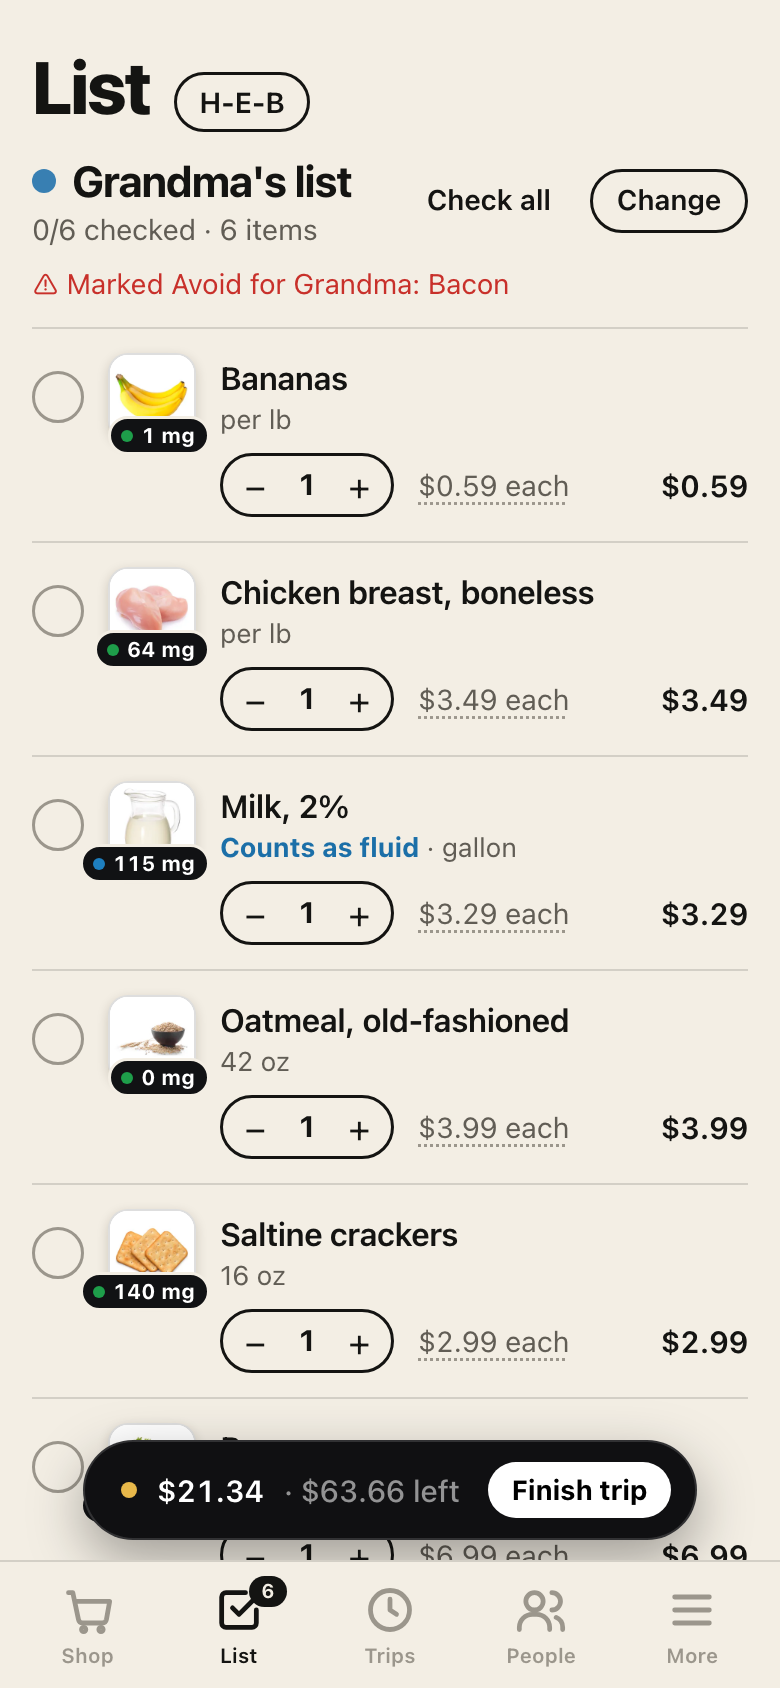
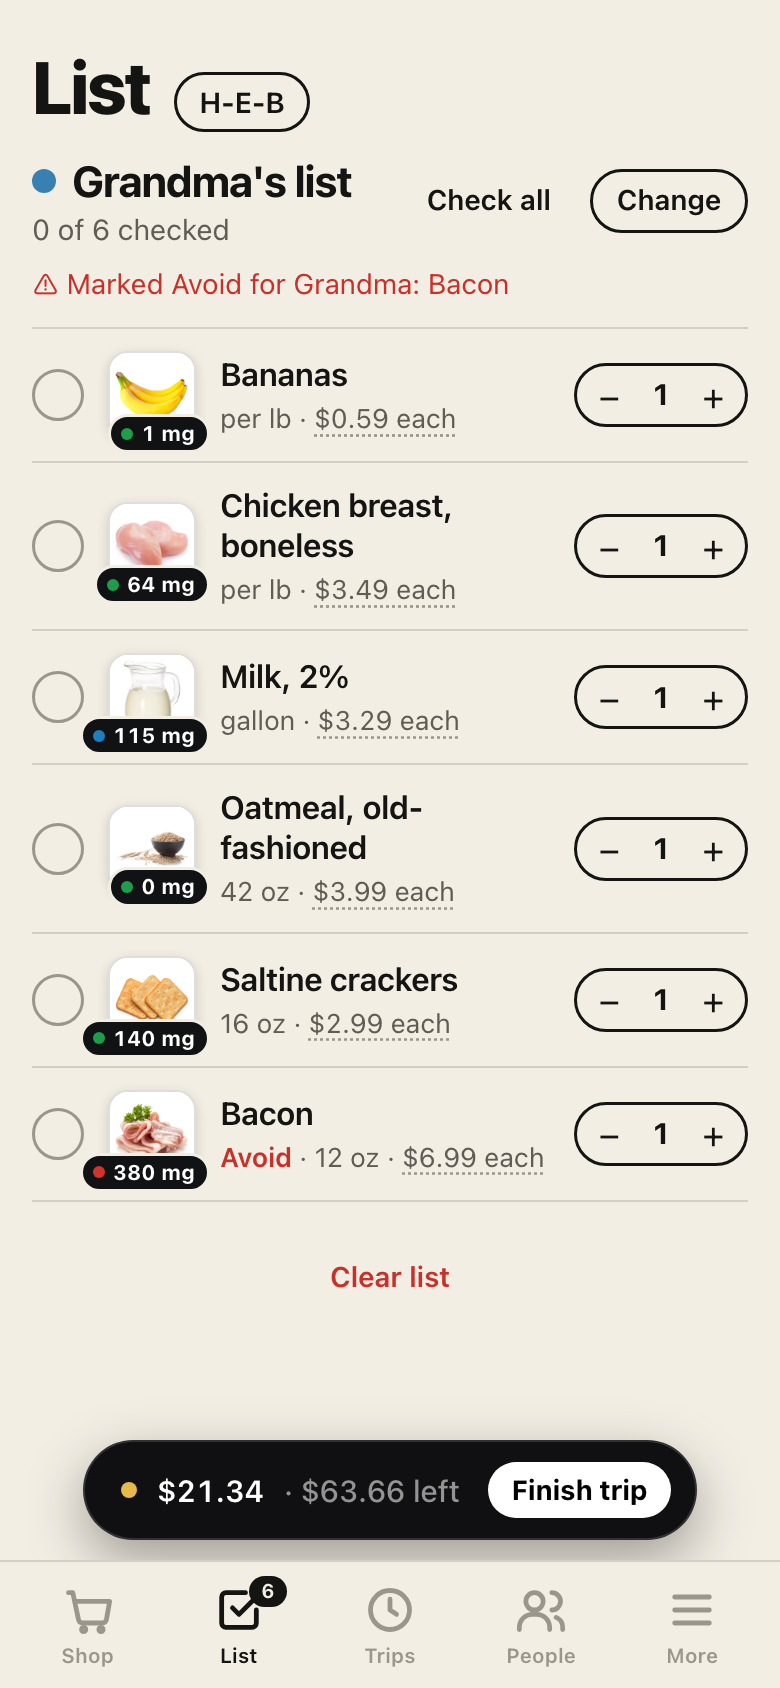
List: one compact row per item (stepper on the right, price in the sub-line, line total only when qty > 1)
Claude-Session: https://claude.ai/code/session_019am7j4huQfKjt5Ju6YVUKz

diff --git a/index.html b/index.html
@@ -182,14 +182,16 @@ textarea.input{min-height:72px;resize:vertical}
 .listhead .sub{color:var(--ink2);font-size:.9rem}
 .listhead .bar{grid-column:1/-1;margin-top:6px}
 .listhead .meta{grid-column:1/-1;display:flex;justify-content:space-between;align-items:center;gap:8px;font-size:.88rem;color:var(--ink2)}
-.cartrow{display:grid;grid-template-columns:auto auto 1fr;gap:6px 12px;align-items:center;padding:12px 0;position:relative;border-bottom:1px solid var(--hair)}
+.cartrow{display:grid;grid-template-columns:auto auto 1fr auto;gap:2px 12px;align-items:center;padding:11px 0;position:relative;border-bottom:1px solid var(--hair)}
 .cartrow.got .name{text-decoration:line-through;color:var(--ink2)}
 .cartrow.got .thumb{opacity:.45}
-.cartrow .name{font-weight:600;font-size:1rem;letter-spacing:-.01em}
-.cartrow .sub{font-size:.84rem;color:var(--ink2)}
-.cartrow .controls{grid-column:3/4;display:flex;align-items:center;gap:10px}
-.cartrow .pricebtn{font-size:.9rem;color:var(--ink2);padding:6px 2px;font-variant-numeric:tabular-nums;text-decoration:underline dotted var(--ink3);text-underline-offset:3px}
-.cartrow .linetotal{margin-left:auto;font-weight:600;color:var(--ink);font-size:.95rem}
+.cartrow .body{min-width:0}
+.cartrow .name{font-weight:600;font-size:1rem;letter-spacing:-.01em;line-height:1.25}
+.cartrow .sub{font-size:.84rem;color:var(--ink2);margin-top:3px;line-height:1.35}
+.cartrow .sub b{font-weight:600} .cartrow .sub .c2{color:var(--limit)} .cartrow .sub .c3{color:var(--avoid)}
+.cartrow .act{display:flex;flex-direction:column;align-items:flex-end;gap:5px;justify-self:end}
+.cartrow .pricebtn{font:inherit;color:var(--ink2);padding:0;font-variant-numeric:tabular-nums;text-decoration:underline dotted var(--ink3);text-underline-offset:3px}
+.cartrow .linetotal{font-weight:600;color:var(--ink);font-size:.9rem;font-variant-numeric:tabular-nums;line-height:1}
 .cartrow .qty{background:transparent;color:var(--ink);border:1.5px solid var(--ink)}
 .cartrow .money{width:104px}
 .cartrow .money .input{min-height:32px;padding-block:3px;border-radius:999px;padding-left:22px}
@@ -1307,7 +1309,7 @@ function renderCart(){
   if (st) $("#titleAside").innerHTML = `<span class="lozenge">${esc(st.name)}</span>`;
   sc.innerHTML = `
     <div class="listhead" style="--h:${personHue(p)}">
-      <div><div class="row nowrap" style="gap:8px"><span class="pdot"></span><h2>${esc(p.name)}'s list</h2></div><div class="sub"><span class="num">${got}/${items.length}</span> checked · ${items.length} item${items.length === 1 ? "" : "s"}</div></div>
+      <div><div class="row nowrap" style="gap:8px"><span class="pdot"></span><h2>${esc(p.name)}'s list</h2></div><div class="sub"><span class="num">${got}</span> of <span class="num">${items.length}</span> checked</div></div>
       <div class="row nowrap" style="gap:6px"><button class="btn sm ghost" data-act="checkall">${items.every(i => i.got) ? "Uncheck all" : "Check all"}</button><button class="btn sm" data-act="trip">Change</button></div>
       ${avoid.length ? `<div class="warn">⚠ Marked Avoid for ${esc(p.name)}: ${esc(avoid.map(x => x.f.name).join(", "))}</div>` : ""}
     </div>
@@ -1316,11 +1318,10 @@ function renderCart(){
       return `<div class="cartrow ${i.got ? "got" : ""}" data-id="${esc(i.id)}">
         <label class="check"><input type="checkbox" data-act="got" ${i.got ? "checked" : ""} aria-label="Got ${esc(i.name || (f && f.name) || "item")}"></label>
         ${f ? tileHTML(f, g.lvl, `${f.na.toLocaleString()} mg`, "sm") : "<span></span>"}
-        <div class="grow"><div class="name">${esc(i.name || (f && f.name) || "Item")}</div><div class="sub">${g.lvl ? `<b class="c${g.lvl}">${L.label}</b> · ` : ""}${f ? esc(unitFor(f, st)) : ""}</div></div>
-        <div class="controls">
+        <div class="body"><div class="name">${esc(i.name || (f && f.name) || "Item")}</div><div class="sub">${g.lvl >= 2 ? `<b class="c${g.lvl}">${L.label}</b> · ` : ""}${f ? esc(unitFor(f, st)) + " · " : ""}<button class="pricebtn" data-act="editprice" aria-label="Change price">${money(i.price)} each</button></div></div>
+        <div class="act">
           <div class="qty"><button data-act="dec" aria-label="One less">−</button><span>${i.qty}</span><button data-act="inc" aria-label="One more">+</button></div>
-          <button class="pricebtn" data-act="editprice" aria-label="Change price">${money(i.price)} each</button>
-          <span class="num linetotal">${money(i.qty * i.price)}</span>
+          ${i.qty > 1 ? `<span class="num linetotal">${money(i.qty * i.price)}</span>` : ""}
         </div>
       </div>`;
     }).join("")}</div>
